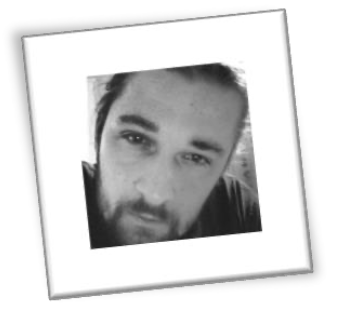
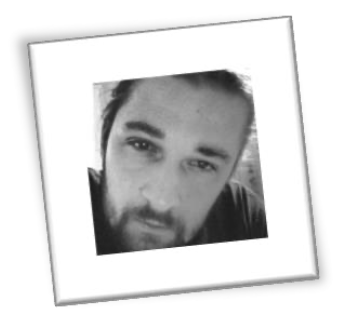
styled full expirience too

Changed region(s): [[0.2353, 0.2006, 0.7941, 0.8312], [0.0294, 0.0287, 0.9412, 0.9745], [0.3824, 0.5732, 0.4118, 0.6019]]

diff --git a/cv/presentations.tex b/cv/presentations.tex
@@ -1,7 +1,8 @@
 %-------------------------------------------------------------------------------
 %   SECTION TITLE
 %-------------------------------------------------------------------------------
-\cvsection{Public presentations}
+\vspace{\acvSectionTopSkip}
+\entrytitlestyle{Public presentations}
 
 
 %-------------------------------------------------------------------------------
@@ -10,14 +11,14 @@
 \begin{cventries}
 
 %---------------------------------------------------------
-  \cventry
+  \cvtalk
     {Talk <How I Learned to Stop Worrying and Love the Views>} % Role
     {Ruby Ireland Meetup} % Event
     {Dublin, Ireland} % Location
     {Jun 2019} % Date(s)
     {}
 
-  \cventry
+  \cvtalk
     {Talk <Agent-based modeling of user-base growth at Meetyl>} % Role
     {Short Informal Mathematical Talks at University of Limerick} % Event
     {Limerick, Ireland} % Location
@@ -25,7 +26,7 @@
     {}
 
 %---------------------------------------------------------
-  \cventry
+  \cvtalk
     {Talk <A Technique of Spectral Mixing Problem Solution>} % Role
     {European Association of Geoscientists and Engineers Conference KazGeo 2012} % Event
     {Almaty, Kazakhstan} % Location
@@ -33,7 +34,7 @@
     {}
 
 %---------------------------------------------------------
-  \cventry
+  \cvtalk
     {Talk <A Technique Utilising a Combination of Supervised and Unsupervised Classifications in Solving Geological Tasks>} % Role
     {European Meeting of Environmental and Engineering Geophysics of the Near Surface Geoscience} % Event
     {Paris, France} % Location

diff --git a/cv/meetyl.tex b/cv/meetyl.tex
@@ -55,10 +55,19 @@
 %---------------------------------------------------------
 \end{cventries}
 
+\begin{cvparagraph}
 
-Main Benefits and Contributions to Employer:
-• Architectural changes resulting in faster build times for new features
-• Usage of Domain-Driven Design to reduce data inconsistency and simplifying usage for other developers
-• An increased shared understanding of the codebase and development approaches
-• Quicker and better feedback for developer changes
-• Increased developer engagement leading to better code
+\textbf{Main Benefits and Contributions to Employer:}
+
+\begin{itemize}
+  \item Architectural changes resulting in faster build times for new features
+  \item Usage of Domain-Driven Design to reduce data inconsistency and simplifying usage for other developers
+  \item An increased shared understanding of the codebase and development approaches
+  \item Quicker and better feedback for developer changes
+  \item Increased developer engagement leading to better code
+\end{itemize}
+
+\end{cvparagraph}
+
+
+

diff --git a/cv.tex b/cv.tex
@@ -52,7 +52,7 @@
 %   Comment any of the lines below if they are not required
 %-------------------------------------------------------------------------------
 % Available options: circle|rectangle,edge/noedge,left/right
-% \photo{./examples/profile.png}
+\photo{./photo.png}
 \name{Alexey}{Dubovskoy}
 % \position{DEVELOPER AND EXPLORER}
 \address{DEVELOPER AND EXPLORER}

diff --git a/cv/innovation.tex b/cv/innovation.tex
@@ -13,7 +13,7 @@
   \cventry
     {MY NEW QUIET CAR – FOUNDER/MANAGING OWNER} % Job title
     {Innovation} % Organization
-    {Limerick, Ireland} % Location
+    {International} % Location
     {2019 - Now} % Date(s)
     {
       \begin{cvitems} % Description(s) of tasks/responsibilities

diff --git a/cv/freelance.tex b/cv/freelance.tex
@@ -28,7 +28,7 @@
   \cventry
     {Full-stack PHP Developer} % Job title
     {} % Organization
-    {Moscow, Russia} % Location
+    {} % Location
     {2006 - 2011} % Date(s)
     {
       \begin{cvitems} % Description(s) of tasks/responsibilities
